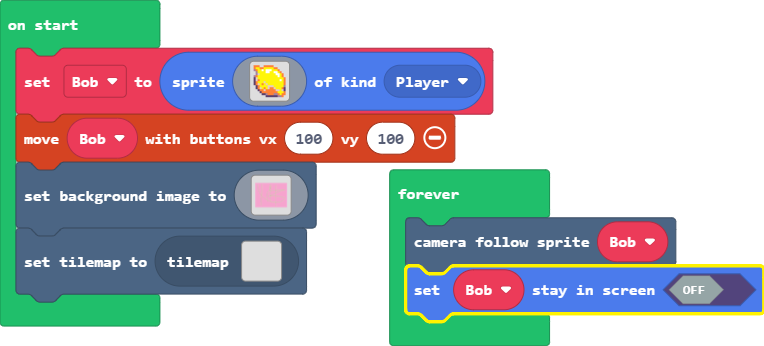
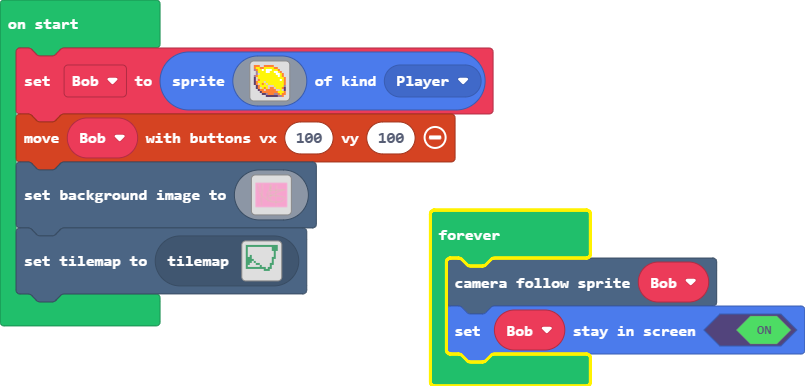
Update main.blocks, tilemap.g.jres, tilemap.g.ts

diff --git a/tilemap.g.ts b/tilemap.g.ts
@@ -2,146 +2,47 @@
 namespace myTiles {
     //% fixedInstance jres blockIdentity=images._tile
     export const transparency16 = image.ofBuffer(hex``);
-    //% fixedInstance jres blockIdentity=images._tile
-    export const tile1 = image.ofBuffer(hex``);
-    //% fixedInstance jres blockIdentity=images._tile
-    export const tile2 = image.ofBuffer(hex``);
 
     helpers._registerFactory("tilemap", function(name: string) {
         switch(helpers.stringTrim(name)) {
-            case "level1":
-            case "level1":return tiles.createTilemap(hex`1000100000000000000000000000000000000000000000000000000000000000000000000000000000000000000000000000000000000000000000000000000000000000000000000000000000000000000000000000000000000000000000000000000000000000000000000000000000000000000000000000000000000000000000000000000000000000000000000000000000000000000000000000000000000000000000000000000000000000000000000000000000000000000000000000000000000000000000000000000000000000000000000000000000000000000000000000000000000000000000000000000000000000000000000000000000000000`, img`
-. . . . . . . . . . . . . . . . 
-. . . . . . . . . . . . . . . . 
-. . . . . . . . . . . . . . . . 
-. . . . . . . . . . . . . . . . 
-. . . . . . . . . . . . . . . . 
-. . . . . . . . . . . . . . . . 
-. . . . . . . . . . . . . . . . 
-. . . . . . . . . . . . . . . . 
-. . . . . . . . . . . . . . . . 
-. . . . . . . . . . . . . . . . 
-. . . . . . . . . . . . . . . . 
-. . . . . . . . . . . . . . . . 
-. . . . . . . . . . . . . . . . 
-. . . . . . . . . . . . . . . . 
-. . . . . . . . . . . . . . . . 
-. . . . . . . . . . . . . . . . 
-`, [], -Infinity);
             case "level2":
-            case "level2":return tiles.createTilemap(hex`1000100000000000000000000000000000000000000000000000000000000000000000000000000000000000000000000000000000000000000000000000000000000000000000000000000000000000000000000000000000000000000000000000000000000000000000000000000000000000000000000000000000000000000000000000000000000000000000000000000000000000000000000000000000000000000000000000000000000000000000000000000000000000000000000000000000000000000000000000000000000000000000000000000000000000000000000000000000000000000000000000000000000000000000000000000000000000`, img`
-. . . . . . . . . . . . . . . . 
-. . . . . . . . . . . . . . . . 
-. . . . . . . . . . . . . . . . 
-. . . . . . . . . . . . . . . . 
-. . . . . . . . . . . . . . . . 
-. . . . . . . . . . . . . . . . 
-. . . . . . . . . . . . . . . . 
-. . . . . . . . . . . . . . . . 
-. . . . . . . . . . . . . . . . 
-. . . . . . . . . . . . . . . . 
-. . . . . . . . . . . . . . . . 
-. . . . . . . . . . . . . . . . 
-. . . . . . . . . . . . . . . . 
-. . . . . . . . . . . . . . . . 
-. . . . . . . . . . . . . . . . 
-. . . . . . . . . . . . . . . . 
-`, [], -Infinity);
-            case "level3":
-            case "level3":return tiles.createTilemap(hex`1000100000000000000000000000000000000000000000000000000000000000000000000000000000000000000000000000000000000000000000000000000000000000000000000000000000000000000000000000000000000000000000000000000000000000000000000000000000000000000000000000000000000000000000000000000000000000000000000000000000000000000000000000000000000000000000000000000000000000000000000000000000000000000000000000000000000000000000000000000000000000000000000000000000000000000000000000000000000000000000000000000000000000000000000000000000000000`, img`
-. . . . . . . . . . . . . . . . 
-. . . . . . . . . . . . . . . . 
-. . . . . . . . . . . . . . . . 
-. . . . . . . . . . . . . . . . 
-. . . . . . . . . . . . . . . . 
-. . . . . . . . . . . . . . . . 
-. . . . . . . . . . . . . . . . 
-. . . . . . . . . . . . . . . . 
-. . . . . . . . . . . . . . . . 
-. . . . . . . . . . . . . . . . 
-. . . . . . . . . . . . . . . . 
-. . . . . . . . . . . . . . . . 
-. . . . . . . . . . . . . . . . 
-. . . . . . . . . . . . . . . . 
-. . . . . . . . . . . . . . . . 
-. . . . . . . . . . . . . . . . 
-`, [myTiles.transparency16], TileScale.Sixteen);
-            case "level4":
-            case "level4":return tiles.createTilemap(hex`1000100001010101010101010101010101010101010101010101020101010101010101010101010101010101010101010101010101010101010101010101010201010101010102010101010101010101010101010101010101010101010101010101010101010101010101010101010101010101010101010101010101010101010101010101010101010201010101010101010101010101010101010101010101010101010101010101010101010101010101010101010101010101010101010101010101010101020101010101010101020101010101010101010101010101010101010101010101010101010101010101010101010101010101010101010101010101`, img`
-. . . . . . . . . . . . . . . . 
-. . . . . . . . . . . . . . . . 
-. . . . . . . . . . . . . . . . 
-. . . . . . . . . . . . . . . . 
-. . . . . . . . . . . . . . . . 
-. . . . . . . . . . . . . . . . 
-. . . . . . . . . . . . . . . . 
-. . . . . . . . . . . . . . . . 
-. . . . . . . . . . . . . . . . 
-. . . . . . . . . . . . . . . . 
-. . . . . . . . . . . . . . . . 
-. . . . . . . . . . . . . . . . 
-. . . . . . . . . . . . . . . . 
-. . . . . . . . . . . . . . . . 
-. . . . . . . . . . . . . . . . 
-. . . . . . . . . . . . . . . . 
-`, [myTiles.transparency16,sprites.castle.tileGrass2,sprites.castle.saplingPine], TileScale.Sixteen);
-            case "level5":
-            case "level5":return tiles.createTilemap(hex`1000100000000000000000000000000000000000000000000000000000000000000000000000000000000000000000000000000000000000000000000000000000000000000000000000000000000000000000000000000000000000000000000000000000000000000000000000000000000000000000000000000000000000000000000000000000000000000000000000000000000000000000000000000000000000000000000000000000000000000000000000000000000000000000000000000000000000000000000000000000000000000000000000000000000000000000000000000000000000000000000000000000000000000000000000000000000000`, img`
-. . . . . . . . . . . . . . . . 
-. . . . . . . . . . . . . . . . 
-. . . . . . . . . . . . . . . . 
-. . . . . . . . . . . . . . . . 
-. . . . . . . . . . . . . . . . 
-. . . . . . . . . . . . . . . . 
-. . . . . . . . . . . . . . . . 
-. . . . . . . . . . . . . . . . 
-. . . . . . . . . . . . . . . . 
-. . . . . . . . . . . . . . . . 
-. . . . . . . . . . . . . . . . 
-. . . . . . . . . . . . . . . . 
-. . . . . . . . . . . . . . . . 
-. . . . . . . . . . . . . . . . 
-. . . . . . . . . . . . . . . . 
-. . . . . . . . . . . . . . . . 
-`, [myTiles.transparency16], TileScale.Sixteen);
-            case "level6":
-            case "level6":return tiles.createTilemap(hex`1000100000000000000000000000000000000000000000000000000000000000000000000000000000000000000000000000000000000000000000000000000000000000000000000000000000000000000000000000000000000000000000000000000000000000000000000000000000000000000000000000000000000000000000000000000000000000000000000000000000000000000000000000000000000000000000000000000000000000000000000000000000000000000000000000000000000000000000000000000000000000000000000000000000000000000000000000000000000000000000000000000000000000000000000000000000000000`, img`
-. . . . . . . . . . . . . . . . 
-. . . . . . . . . . . . . . . . 
-. . . . . . . . . . . . . . . . 
-. . . . . . . . . . . . . . . . 
-. . . . . . . . . . . . . . . . 
-. . . . . . . . . . . . . . . . 
-. . . . . . . . . . . . . . . . 
-. . . . . . . . . . . . . . . . 
-. . . . . . . . . . . . . . . . 
-. . . . . . . . . . . . . . . . 
-. . . . . . . . . . . . . . . . 
-. . . . . . . . . . . . . . . . 
-. . . . . . . . . . . . . . . . 
-. . . . . . . . . . . . . . . . 
-. . . . . . . . . . . . . . . . 
-. . . . . . . . . . . . . . . . 
-`, [myTiles.transparency16], TileScale.Sixteen);
-            case "level7":
-            case "level7":return tiles.createTilemap(hex`1000100000000000000000000000000000000000000000000000000000000000000000000000000000000000000000000000000000000000000000000000000000000000000000000000000000000000000000000000000000000000000000000000000000000000000000000000000000000000000000000000000000000000000000000000000000000000000000000000000000000000000000000000000000000000000000000000000000000000000000000000000000000000000000000000000000000000000000000000000000000000000000000000000000000000000000000000000000000000000000000000000000000000000000000000000000000000`, img`
-. . . . . . . . . . . . . . . . 
-. . . . . . . . . . . . . . . . 
-. . . . . . . . . . . . . . . . 
-. . . . . . . . . . . . . . . . 
-. . . . . . . . . . . . . . . . 
-. . . . . . . . . . . . . . . . 
-. . . . . . . . . . . . . . . . 
-. . . . . . . . . . . . . . . . 
-. . . . . . . . . . . . . . . . 
-. . . . . . . . . . . . . . . . 
-. . . . . . . . . . . . . . . . 
-. . . . . . . . . . . . . . . . 
-. . . . . . . . . . . . . . . . 
-. . . . . . . . . . . . . . . . 
-. . . . . . . . . . . . . . . . 
-. . . . . . . . . . . . . . . . 
-`, [myTiles.transparency16], TileScale.Sixteen);
+            case "level2":return tiles.createTilemap(hex`1000100001010101010101010101010101010101010000000000000000000000000000010100000000000000000000000000010001000000000000000000000000000100010000000000000000000000000001000100000000000000000001000000010001000000000000000000010000000100010000000000000000000100000001000100000001000000000001000000010001000000010000000000010000000100010000000100000000000001000001000100000100010101010101010100000101000001000000000000000001010101010001000000000000000000000000000101000000000000000000000000000000010000000000000000000000000000`, img`
+2 2 2 2 2 2 2 2 2 2 2 2 2 2 2 2 
+2 . . . . . . . . . . . . . . 2 
+2 . . . . . . . . . . . . . 2 . 
+2 . . . . . . . . . . . . . 2 . 
+2 . . . . . . . . . . . . . 2 . 
+2 . . . . . . . . . 2 . . . 2 . 
+2 . . . . . . . . . 2 . . . 2 . 
+2 . . . . . . . . . 2 . . . 2 . 
+2 . . . 2 . . . . . 2 . . . 2 . 
+2 . . . 2 . . . . . 2 . . . 2 . 
+2 . . . 2 . . . . . . 2 . . 2 . 
+2 . . 2 . 2 2 2 2 2 2 2 2 . . 2 
+2 . . 2 . . . . . . . . 2 2 2 2 
+2 . 2 . . . . . . . . . . . . . 
+2 2 . . . . . . . . . . . . . . 
+. 2 . . . . . . . . . . . . . . 
+`, [myTiles.transparency16,sprites.castle.tileGrass2], TileScale.Sixteen);
+            case "level1":
+            case "level1":return tiles.createTilemap(hex`1000100001010101010101010101010101010101010000000000000000000000000101010100000000000000000000000001010101000000000000000000000000000100010000000000000000000000000001000100010000000000000000000000010001010100000000000000000000010100010101010000000000000000000100000101010001000000000000000001000001010000000101000000000001010000010000000000000100000000010000000101010101010101010100010100000000000000000000000001010100000000000000000000000000000000000000000000000000000000000000000000000000000000000000000000000000000000`, img`
+2 2 2 2 2 2 2 2 2 2 2 2 2 2 2 2 
+2 . . . . . . . . . . . . 2 2 2 
+2 . . . . . . . . . . . . . . 2 
+2 . . . . . . . . . . . . . 2 . 
+2 . . . . . . . . . . . . . 2 . 
+2 . 2 . . . . . . . . . . . 2 . 
+2 . 2 . . . . . . . . . . 2 . . 
+2 2 . . . . . . . . . . . 2 . . 
+2 2 . . . . . . . . . . . 2 . . 
+2 2 . . . . . . . . . . . 2 . . 
+2 . . . . . . . . . . . 2 . . . 
+2 2 2 2 2 2 2 2 2 2 . . 2 . . . 
+. . . . 2 2 2 2 2 2 2 2 . . . . 
+. . . . . . . . . . . . . . . . 
+. . . . . . . . . . . . . . . . 
+. . . . . . . . . . . . . . . . 
+`, [myTiles.transparency16,sprites.builtin.forestTiles0], TileScale.Sixteen);
         }
         return null;
     })
@@ -149,8 +50,6 @@ namespace myTiles {
     helpers._registerFactory("tile", function(name: string) {
         switch(helpers.stringTrim(name)) {
             case "transparency16":return transparency16;
-            case "tile1":return tile1;
-            case "tile2":return tile2;
         }
         return null;
     })
